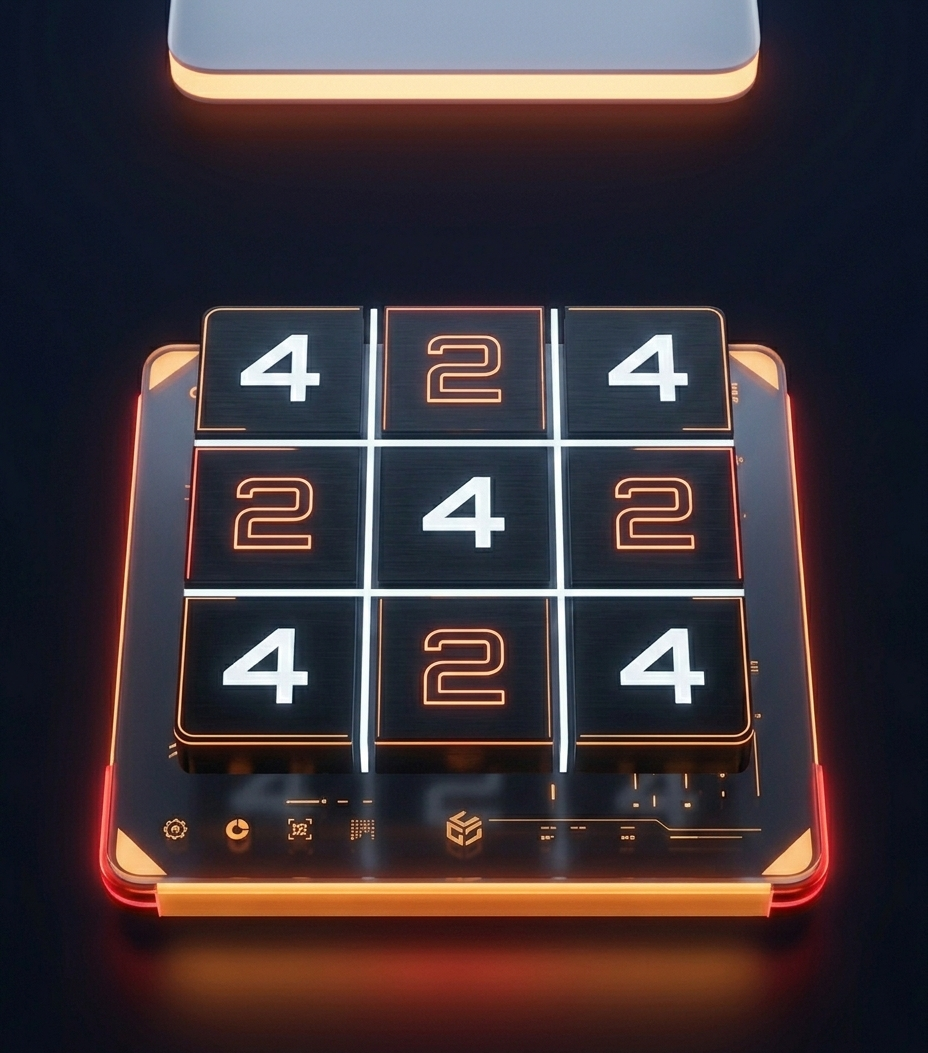
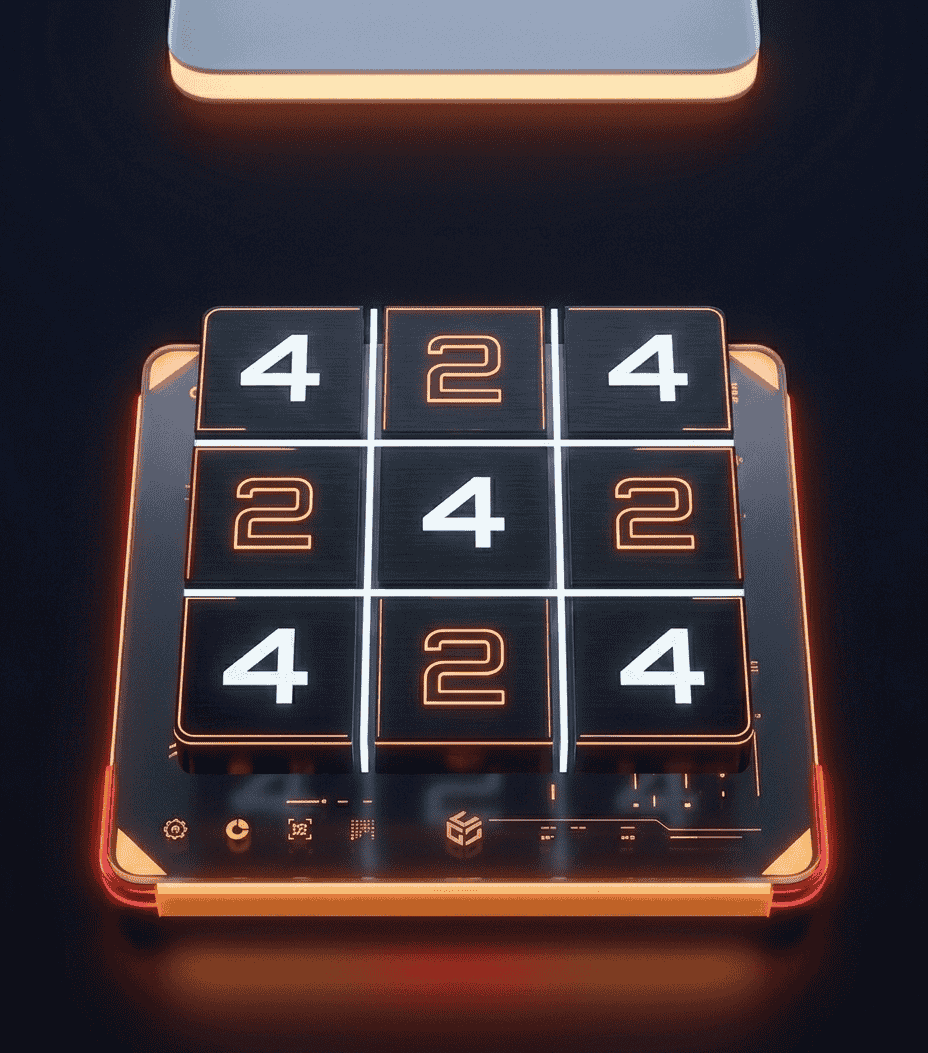
change size of images annd replace old with new

diff --git a/frontend/src/pages/Verify2fapage.tsx b/frontend/src/pages/Verify2fapage.tsx
@@ -3,7 +3,6 @@ import { useNavigate, useSearchParams } from "react-router-dom";
 import type { TFunction } from "i18next";
 import { useAuth } from "../context/AuthContext";
 import { useTranslation } from "react-i18next";
-import verify from "../images/loginimg.png";
 import verifyDark from "../images/loginimgDark.png";
 import { clearPendingTwoFA, getPendingTwoFA, storePendingTwoFA, twoFAVerify } from "../services/auth";
 import type { ApiError } from "../services/api";

diff --git a/frontend/src/pages/RegisterPage.tsx b/frontend/src/pages/RegisterPage.tsx
@@ -2,7 +2,6 @@ import { useState, useEffect } from "react";
 import { Link, useNavigate } from "react-router-dom";
 import type { TFunction } from "i18next";
 import { useTranslation } from "react-i18next";
-import registerImg from "../images/registerimg.png";
 import registerImgDark from "../images/registerimgDark.png";
 import { EyeIcon, EyeOffIcon } from "../components/icons/Eyeicons";
 import { Button } from "../components/ui/Button";

diff --git a/frontend/src/pages/TermsOfServicePage.tsx b/frontend/src/pages/TermsOfServicePage.tsx
@@ -76,7 +76,6 @@ export default function TermsOfServicePage() {
           <h2 className="text-2xl font-bold mb-4">{t("terms_of_service.eligibility_title")}</h2>
           <ul style={{ color: "var(--color-text-secondary)" }} className="list-disc list-inside space-y-2 ml-2">
             <li>{t("terms_of_service.eligibility_age")}</li>
-            <li>{t("terms_of_service.eligibility_minor")}</li>
           </ul>
         </section>
 

diff --git a/frontend/src/pages/Resetpasswordpage.tsx b/frontend/src/pages/Resetpasswordpage.tsx
@@ -2,7 +2,6 @@ import { useState, useEffect } from "react";
 import { useNavigate, useSearchParams } from "react-router-dom";
 import type { TFunction } from "i18next";
 import { useTranslation } from "react-i18next";
-import resetImg from "../images/loginimg.png";
 import resetDark from "../images/loginimgDark.png";
 import { EyeIcon, EyeOffIcon } from "../components/icons/Eyeicons";
 import { Button } from "../components/ui/Button";

diff --git a/frontend/src/pages/LoginPage.tsx b/frontend/src/pages/LoginPage.tsx
@@ -3,7 +3,6 @@ import { Link, useNavigate } from "react-router-dom";
 import type { TFunction } from "i18next";
 import { useAuth } from "../context/AuthContext";
 import { useTranslation } from "react-i18next";
-import loginImg from "../images/loginimg.png";
 import loginImgDark from "../images/loginimgDark.png";
 import { EyeIcon, EyeOffIcon } from "../components/icons/Eyeicons";
 import { Button } from "../components/ui/Button";

diff --git a/frontend/src/pages/Forgotpasswordpage.tsx b/frontend/src/pages/Forgotpasswordpage.tsx
@@ -6,7 +6,6 @@ import { requestPasswordReset } from "../services/auth";
 import type { ApiError } from "../services/api";
 import { Button } from "../components/ui/Button";
 import { Input } from "../components/ui/Input";
-import forgetPass from "../images/loginimg.png";
 import forgetPassDark from "../images/loginimgDark.png";
 
 export default function ForgotPasswordPage() {
